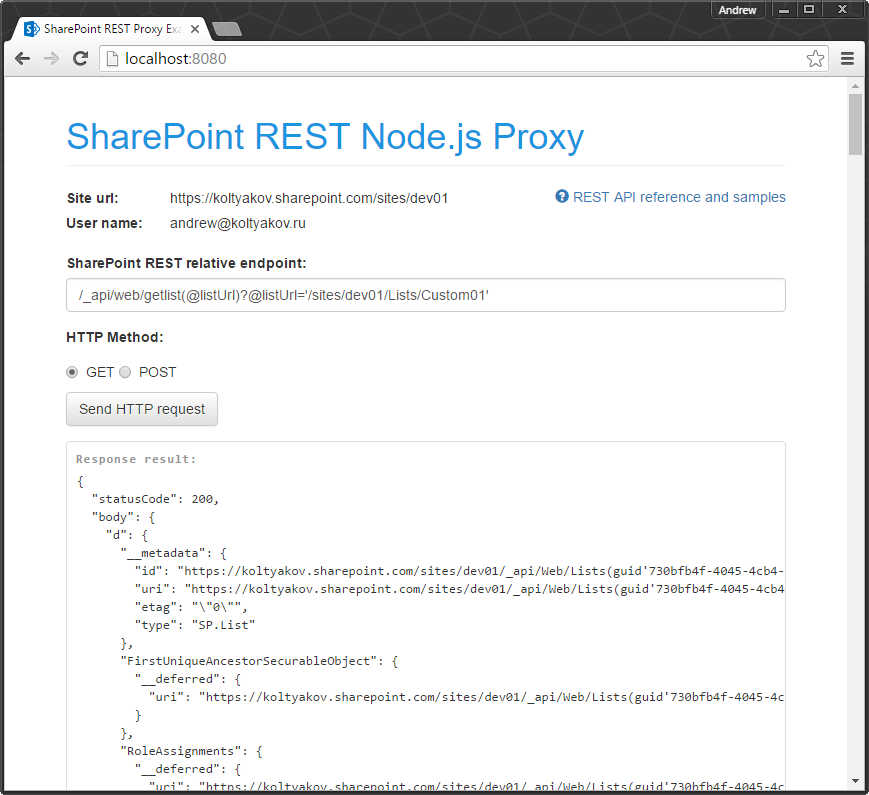
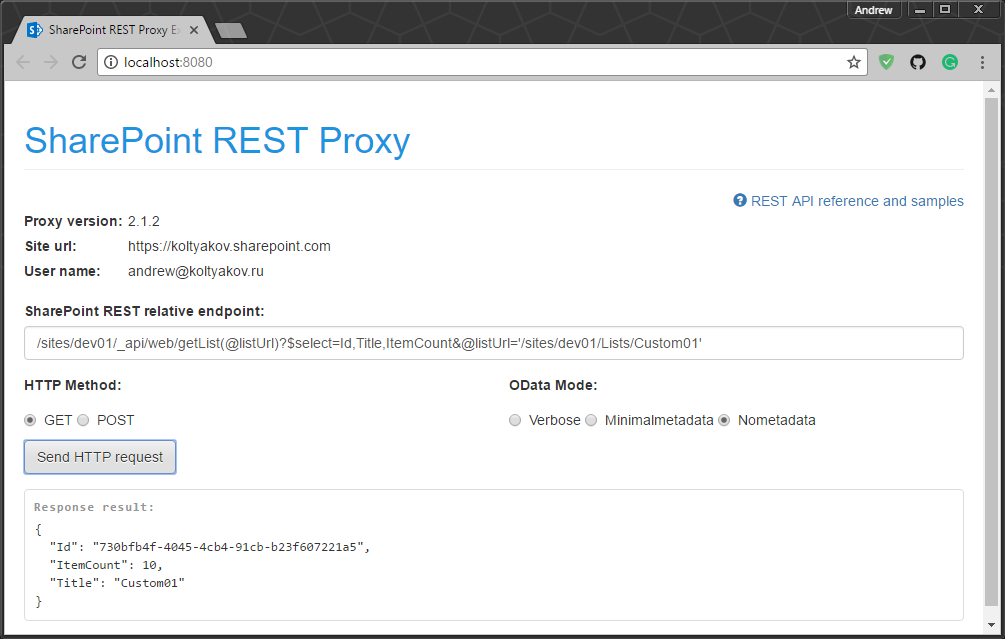
Readme update

diff --git a/static/index-cdn.html b/static/index-cdn.html
@@ -19,7 +19,7 @@
     <header class="navbar navbar-static-top" id="top">
         <div class="container">
             <div class="navbar-header">
-                <h1 class="page-header">SharePoint REST Node.js Proxy</h1>
+                <h1 class="page-header">SharePoint REST Proxy</h1>
             </div>
         </div>
     </header>

diff --git a/static/index.html b/static/index.html
@@ -14,7 +14,7 @@
     <header class="navbar navbar-static-top" id="top">
         <div class="container">
             <div class="navbar-header">
-                <h1 class="page-header">SharePoint REST Node.js Proxy</h1>
+                <h1 class="page-header">SharePoint REST Proxy</h1>
             </div>
         </div>
     </header>

diff --git a/README.md b/README.md
@@ -9,12 +9,25 @@ Allows to perform API calls to local Express application with forwarding the que
 
 This concept was created to show how is could be easy to implements real world data communications for SharePoint Framework local serve mode during web parts debug without deployment to SharePoint tenant.
 
-## Supported SharePoint versions:
+## Supported SharePoint versions
 - SharePoint Online
 - SharePoint 2013
 - SharePoint 2016
 
-## How to use as a module:
+## Support proxying
+- REST API
+- CSOM requests
+- SOAP web services
+- Static resources
+
+## Proxy modes
+- API Proxy server
+- Socket gateway server
+- Socket gateway client
+
+Socket proxying allows to forward API from behind NAT (experimental).
+
+## How to use as a module
 
 1\. Install NPM module in the project:
 
@@ -22,16 +35,21 @@ This concept was created to show how is could be easy to implements real world d
 npm install --save-dev sp-rest-proxy
 ```
 
+or
+
+```bash
+yarn add sp-rest-proxy --dev
+```
+
 2\. Create server.js with the following code:
 
 ```javascript
 const RestProxy = require('sp-rest-proxy');
-const path = require('path');
 
 const settings = {
-    configPath: path.join(__dirname, '/../config/_private.conf.json'), // Location for SharePoint instance mapping and credentials
-    port: 8080,                                                        // Local server port
-    staticRoot: path.join(__dirname, '/../src')                        // Root folder for static content
+    configPath: './config/_private.conf.json', // Location for SharePoint instance mapping and credentials
+    port: 8080,                                // Local server port
+    staticRoot: './static'                     // Root folder for static content
 };
 
 const restProxy = new RestProxy(settings);
@@ -56,11 +74,11 @@ Check if the path to server.js is correct.
 
 6\. Test local API proxy in action.
 
-## How to develop:
+## How to develop
 
-### Install:
+### Install
 
-1\. Clone the project:
+1\. Clone/fork the project:
 
 ```bash
 git clone https://github.com/koltyakov/sp-rest-proxy
@@ -71,54 +89,73 @@ git clone https://github.com/koltyakov/sp-rest-proxy
 3\. Install dependencies:
 
 ```bash
+npm install
+```
+
+or
+
+```bash
+yarn install
+```
+
+4\. Build:
+
+```bash
 npm run build
 ```
 
-4\. Run the server:
+5\. Run the server:
 
 ```bash
 npm run serve
 ```
 
-Prompt credentials for a SharePoint site.
+or serve in TypeScript directly
 
-5\. Navigate to http://localhost:8080
+```bash
+npm run ts-serve
+```
 
-6\. Ajax REST calls as if you were in SharePoint site page context:
+Prompts credentials for a SharePoint site.
+
+6\. Navigate to http://localhost:8080 (or whatever in settings)
+
+7\. Ajax REST calls as if you were in SharePoint site page context:
 
 ![REST Client Example](./docs/img/client-example.png)
 
+8\. Tests.
+
+```bash
+npm run test
+```
+
+![Tests Example](./docs/img/tests-example.png)
+
 ## Authentication settings
 
-Since communication module (sp-request), which is used in sppull, had received additional SharePoint authentication methods, they are also supported in sp-rest-proxy.
+The proxy provides wizard-like approach for building and managing config files for [`node-sp-auth`](https://github.com/s-KaiNet/node-sp-auth) (Node.js to SharePoint unattended http authentication).
 
-- SharePoint On-Premise (Add-In permissions):
-    - `clientId`
-    - `issuerId`
-    - `realm`
-    - `rsaPrivateKeyPath`
-    - `shaThumbprint`
-- SharePoint On-Premise (NTLM handshake - more commonly used scenario):
-    - `username` - username without domain
-    - `password`
-    - `domain` / `workstation`
-- SharePoint Online (Add-In permissions):
-    - `clientId`
-    - `clientSecret`
-- SharePoint Online (SAML based with credentials - more commonly used scenario):
-    - `username` - user name for SP authentication [string, required]
-    - `password` - password [string, required]
-- ADFS user credantials:
-    - `username`
-    - `password`
-    - `relyingParty`
-    - `adfsUrl`
+- SharePoint 2013, 2016:
+  - Addin only permissions
+  - User credentials through the http ntlm handshake
+  - Form-based authentication (FBA)
+- SharePoint Online:
+  - Addin only permissions
+  - SAML based with user credentials
+  - ADFS user credentials (works with both SharePoint on-premise and Online)
 
 For more information please check node-sp-auth [credential options](https://github.com/s-KaiNet/node-sp-auth#params) and [wiki pages](https://github.com/s-KaiNet/node-sp-auth/wiki).
-Auth settings are stored inside `./config/_private.conf.js`.
+Auth settings are stored inside `./config/private.json`.
 
 ## Some additional info
 
 sp-rest-proxy works with PnP JS Core (not POST request, as there is an endpoint transformation during POST request in PnP JS Core):
 
 ![PnP JS Core + sp-rest-proxy](http://koltyakov.ru/images/pnp-sp-rest-proxy.png)
+
+## Use cases
+
+- Client side applications development with local serve, but real data from SharePoint
+- SharePoint Framework in local workbench with real data
+- Client applications integration test automation scenarios
